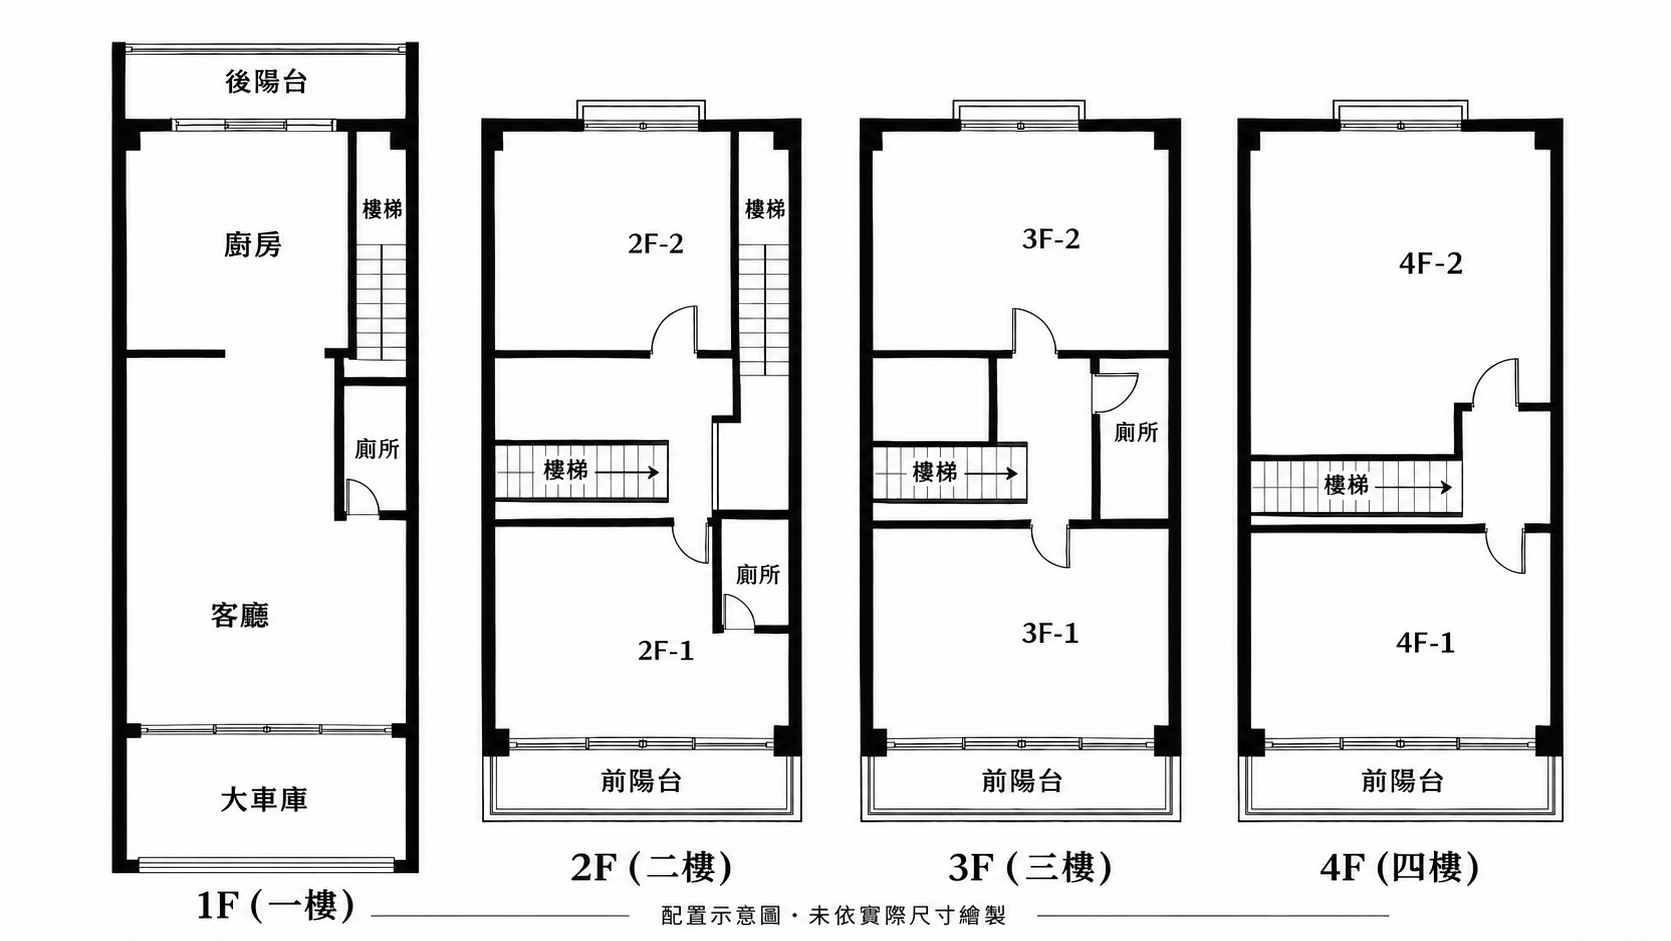
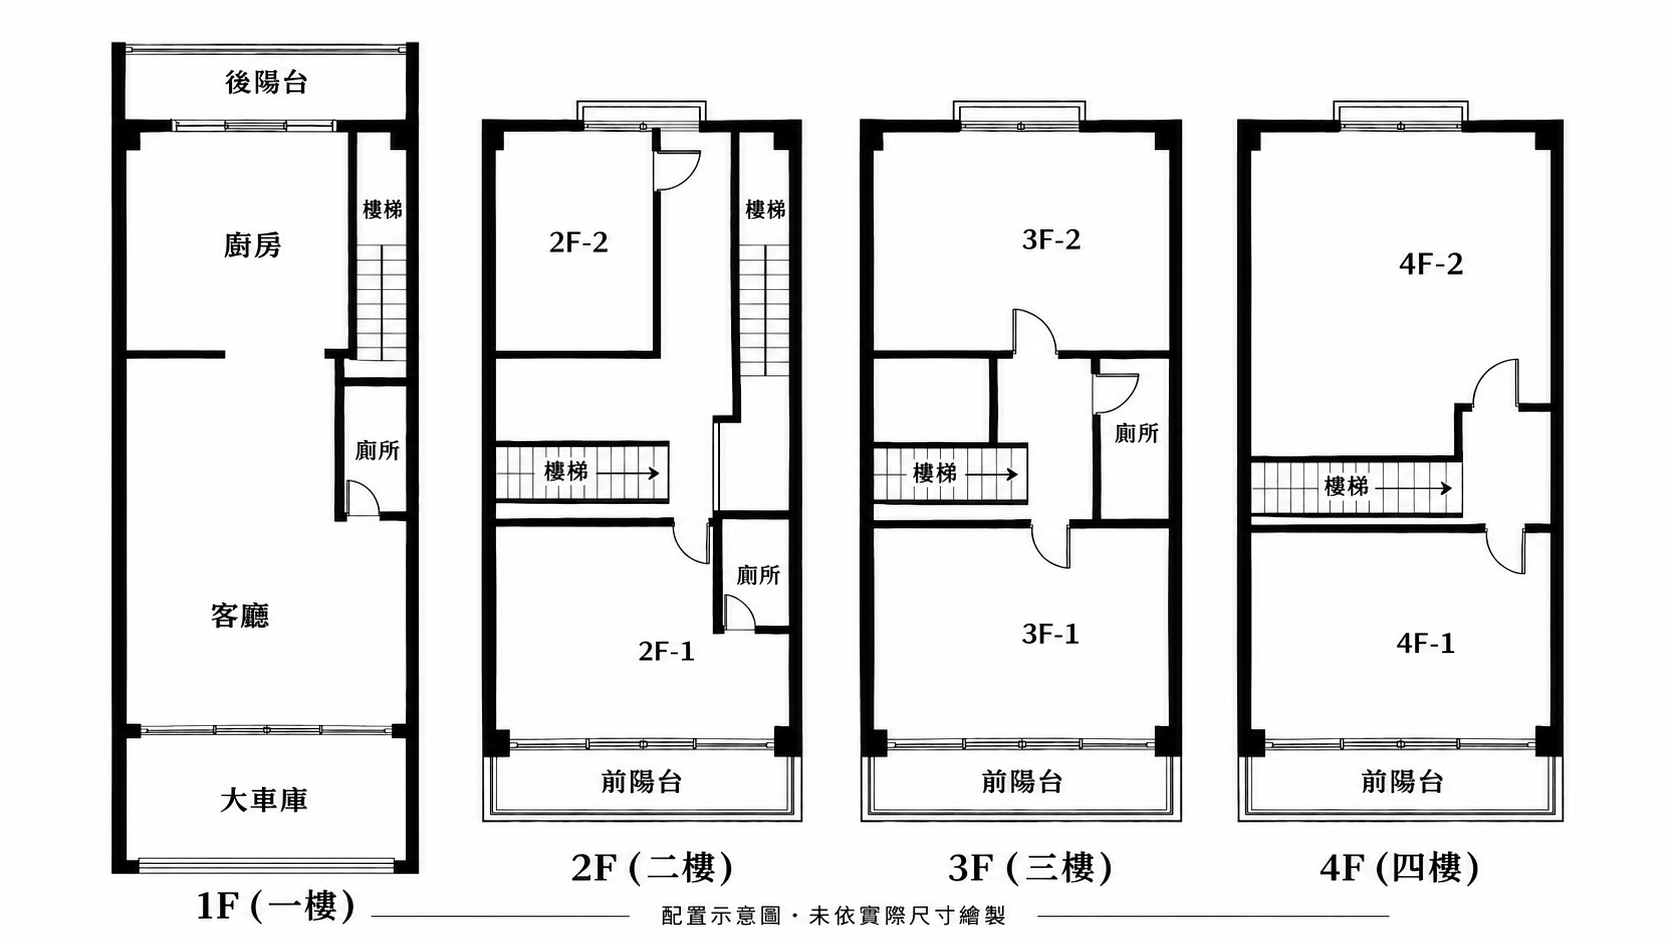
Resize 2F-2 and move doorway to rear side wall

diff --git a/index.html b/index.html
@@ -6,16 +6,16 @@
   <meta name="theme-color" content="#f7f5ee">
   <meta name="apple-mobile-web-app-capable" content="yes">
   <title>收好收滿</title>
-  <link rel="icon" href="icon.svg?v=2" type="image/svg+xml">
-  <link rel="manifest" href="manifest.webmanifest?v=2">
-  <link rel="stylesheet" href="app.css?v=2">
+  <link rel="icon" href="icon.svg?v=3" type="image/svg+xml">
+  <link rel="manifest" href="manifest.webmanifest?v=3">
+  <link rel="stylesheet" href="app.css?v=3">
   <script src="https://accounts.google.com/gsi/client" async></script>
   <script src="https://schmidtaiwan.github.io/JasonHome/google_config.js" defer></script>
-  <script src="drive.js?v=2" defer></script>
-  <script src="app.js?v=2" defer></script>
+  <script src="drive.js?v=3" defer></script>
+  <script src="app.js?v=3" defer></script>
 </head>
 <body>
-  <header class="brand"><img src="icon.svg?v=2" alt=""><div><strong>收好收滿</strong><p id="page-version" class="page-version"></p></div><button id="logout" class="quiet" hidden>登出</button></header>
+  <header class="brand"><img src="icon.svg?v=3" alt=""><div><strong>收好收滿</strong><p id="page-version" class="page-version"></p></div><button id="logout" class="quiet" hidden>登出</button></header>
   <section id="gate" class="gate" aria-labelledby="gate-title">
     <div class="hero">
       <div><h1 id="gate-title">收好收滿</h1><p>登入 Google，查看與管理你的收納清單。</p></div>
@@ -33,8 +33,8 @@
       <div class="section-title"><h2 id="floor-heading">我的四層透天</h2><span>固定樓層</span></div>
       <p class="muted">選擇樓層，新增空間與收納櫃。1F 前方為大車庫。</p>
       <div id="floor-tabs" class="floor-tabs" aria-label="選擇樓層"></div>
-      <div id="floor-image" class="floor-image" role="img" aria-label="四層樓平面圖"><img src="assets/floor-plans.png?v=2" alt="四層透天配置示意圖，一樓含大車庫；未依實際尺寸繪製"></div>
-      <a class="plan-original" href="assets/floor-plans.png?v=2" target="_blank" rel="noopener">查看完整平面圖</a>
+      <div id="floor-image" class="floor-image" role="img" aria-label="四層樓平面圖"><img src="assets/floor-plans.png?v=3" alt="四層透天配置示意圖，一樓含大車庫；未依實際尺寸繪製"></div>
+      <a class="plan-original" href="assets/floor-plans.png?v=3" target="_blank" rel="noopener">查看完整平面圖</a>
     </section>
     <label class="search"><span aria-hidden="true">⌕</span><input type="search" id="search" placeholder="搜尋物品或分類箱" aria-label="搜尋物品或分類箱"></label>
     <nav id="path" aria-label="收納位置"></nav>

diff --git a/app.js b/app.js
@@ -1,7 +1,7 @@
 "use strict";
 
 const labels = ["樓層", "空間", "櫃子", "分類箱", "物品"];
-const PAGE_BUILD = 2;
+const PAGE_BUILD = 3;
 const PAGE_DATE = "2026-11-19";
 const $ = id => document.getElementById(id);
 const editor = $("editor");
